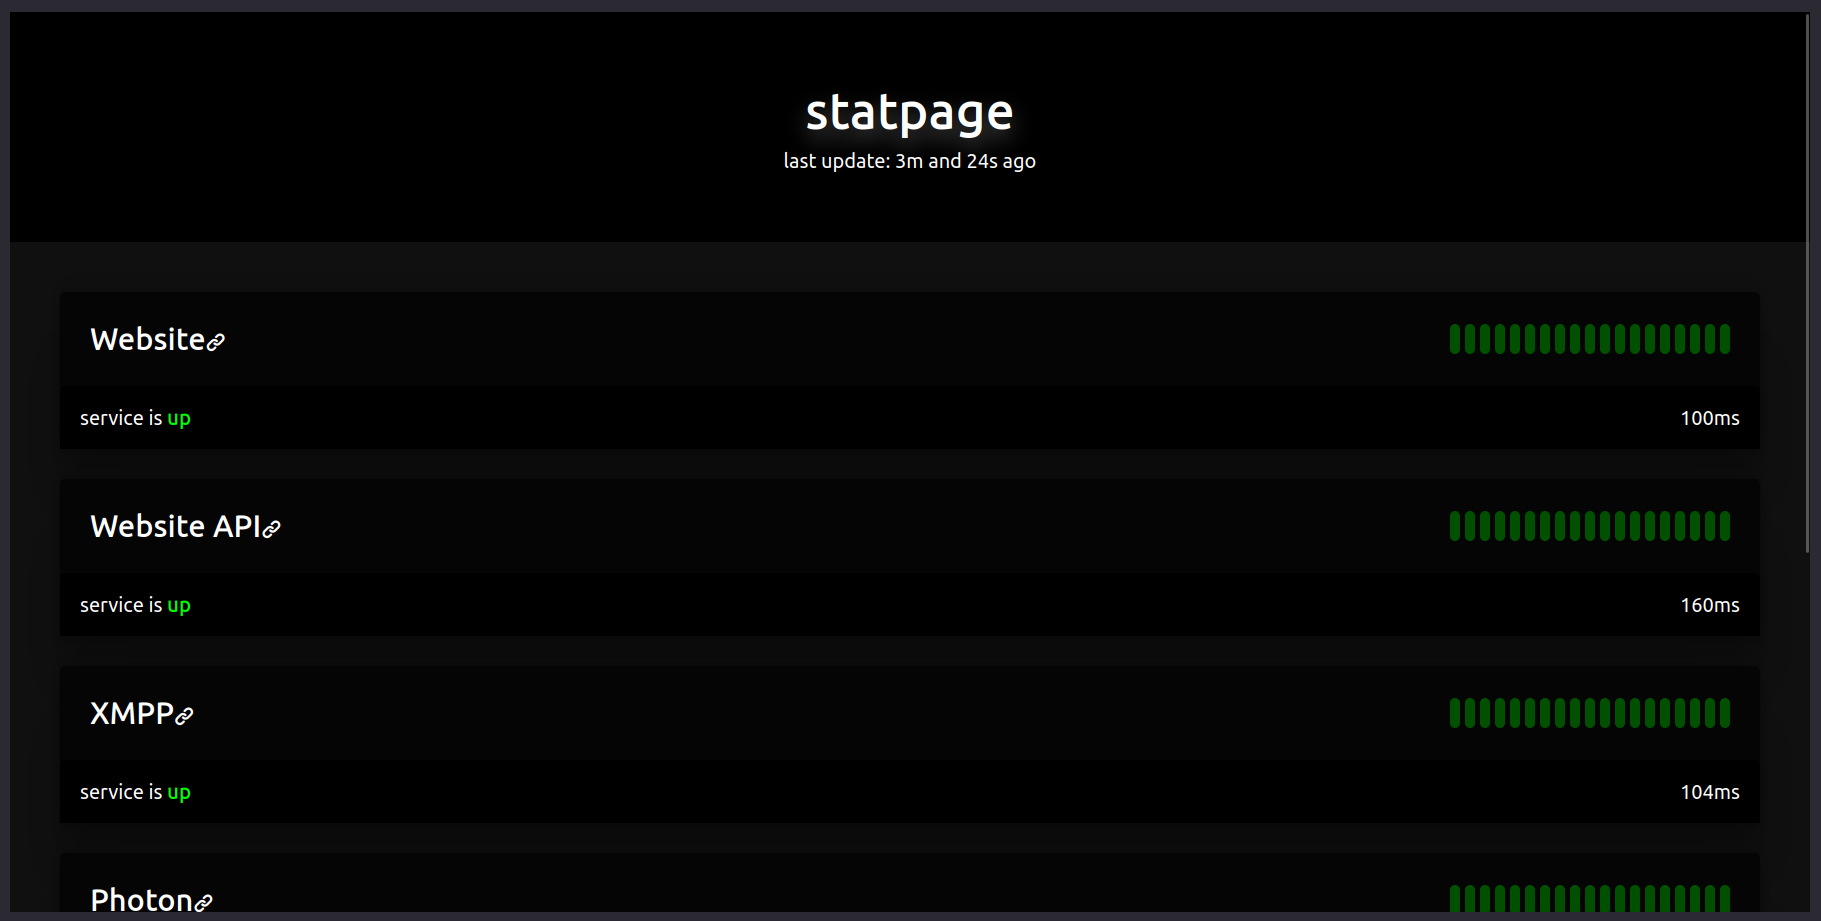
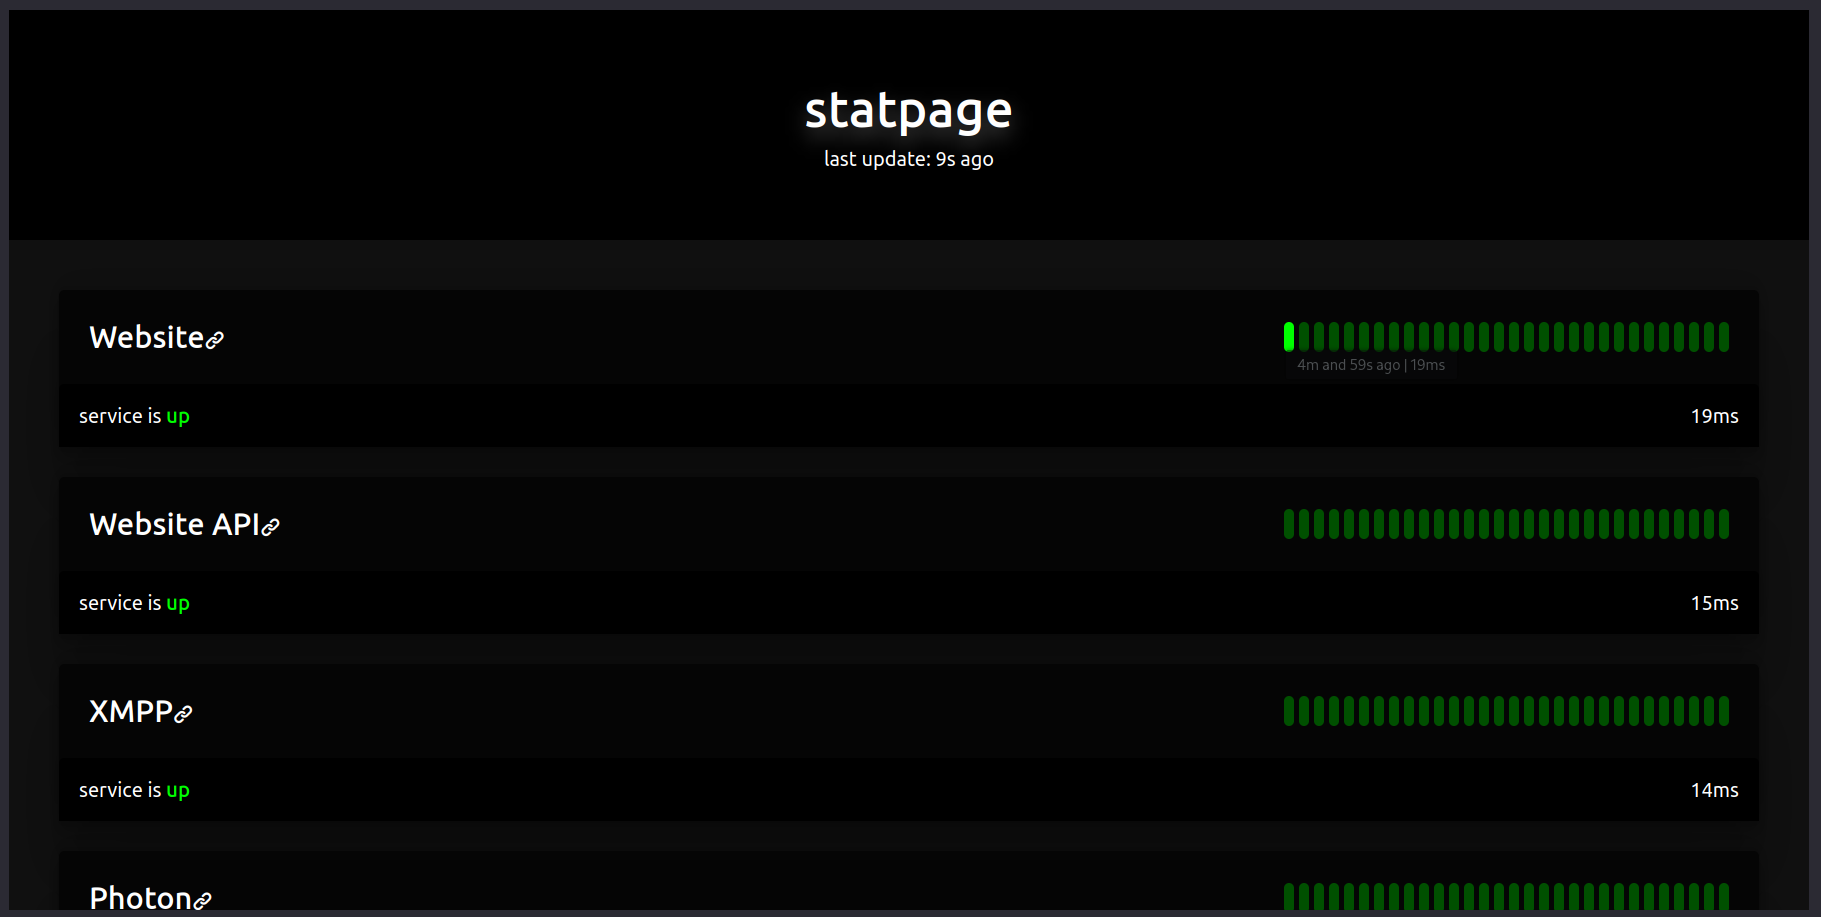
better time measuring for http(s) + new check result structure

diff --git a/views/index.html b/views/index.html
@@ -11,7 +11,7 @@
 
     <div class="header">
       <h1>{{.title}}</h1>
-      <p>last update: {{.checktime}}</p>
+      <p>last update: {{call .checktime .lastcheck}}</p>
     </div>
 
     <div class="services">
@@ -27,14 +27,18 @@
             </div>
             <div class="bars">
             {{range $result := $service.Results}}
-              {{if gt $result.SuccessRate 90}}
-                <div title=" {{$result.Date}} | {{$result.TimeAverage}}ms " class="bar bar-100"></div>
-              {{else if gt $result.SuccessRate 70}}
-                <div title=" {{$result.Date}} | {{$result.TimeAverage}}ms " class="bar bar-70"></div>
-              {{else if gt $result.SuccessRate 40}}
-                <div title=" {{$result.Date}} | {{$result.TimeAverage}}ms " class="bar bar-40"></div>
+              {{if $result.Success}}
+                {{if gt $result.Time 200}}
+                  <div title=" {{call $.checktime $result.Stamp}} | {{$result.Time}}ms " class="bar bar-0"></div>
+                {{else if gt $result.Time 150}}
+                  <div title=" {{call $.checktime $result.Stamp}} | {{$result.Time}}ms " class="bar bar-40"></div>
+                {{else if gt $result.Time 100}}
+                  <div title=" {{call $.checktime $result.Stamp}} | {{$result.Time}}ms " class="bar bar-70"></div>
+                {{else}}
+                  <div title=" {{call $.checktime $result.Stamp}} | {{$result.Time}}ms " class="bar bar-100"></div>
+                {{end}}
               {{else}}
-                <div title=" {{$result.Date}} | {{$result.TimeAverage}}ms " class="bar bar-0"></div>
+                  <div title=" {{call $.checktime $result.Stamp}} | Down " class="bar bar-0"></div>
               {{end}}
             {{end}}
             </div>
@@ -62,4 +66,3 @@
 
   </body>
 </html>
-

diff --git a/lib/data.go b/lib/data.go
@@ -2,7 +2,6 @@ package lib
 
 import (
 	"encoding/json"
-	"fmt"
 	"os"
 	"path"
 	"time"
@@ -11,11 +10,9 @@ import (
 )
 
 type Result struct {
-  SuccessRate int     `json:"success_rate"` 
-  TimeAverage int     `json:"time_average"`
-  Success     []bool  `json:"success"`
-  Time        []int   `json:"time"`
-  Date        string  `json:"date"`
+  Time        int             `json:"time"`
+  Success     bool            `json:"success"`
+  Stamp       time.Time       `json:"stamp"`
 }
 
 // data is just a json list containing all the services 
@@ -55,7 +52,7 @@ func CheckDataDir() {
   }
 }
 
-func LoadResults() {
+func LoadData() {
   CheckDataDir()
 
   content, err := os.ReadFile(path.Join("data", "data.json"))
@@ -80,7 +77,7 @@ func LoadResults() {
   Services = data.Services
 }
 
-func SaveResults() {
+func SaveData() {
   CheckDataDir()
   
   // create a temp data object
@@ -98,25 +95,6 @@ func SaveResults() {
   if err != nil {
     log.Fatalf("Error writing to data file: %s", err)
   }
-}
-
-func CalcRate(result Result) Result {
-  // really ugly rate calculations
-  result.SuccessRate = 100
-  persuccess := 100/len(result.Success)
-  for _, s := range result.Success {
-    if !s {
-      result.SuccessRate = result.SuccessRate - persuccess
-    }
-  }
-
-  result.TimeAverage = 0
-  for _, t := range result.Time {
-    result.TimeAverage += t
-  }
-  result.TimeAverage = result.TimeAverage / len(result.Time)
-
-  return result
 }
 
 func CheckRemoved() {
@@ -137,52 +115,45 @@ func CheckRemoved() {
     }
   }
 
-  SaveResults()
+  SaveData()
 }
 
 func SaveResult(service Service, t int, ok bool) {
   CheckRemoved()
 
-  found := false
-  now := time.Now()
-  date := fmt.Sprintf(
-    "%d/%d/%d", 
-    now.Day(), now.Month(), now.Year(),
-  )
-
   for i := range Services {
-    if Services[i].Address == service.Address && Services[i].Type == service.Type {
-      indx := len(Services[i].Results)-1
-      Services[i].Results[indx].Time = append(Services[i].Results[indx].Time, t)
-      Services[i].Results[indx].Success = append(Services[i].Results[indx].Success, ok)
-      Services[i].Results[indx].Date = date
-
-      Services[i].LastTime = t 
-      Services[i].LastSuccess = ok 
-      found = true
+    if Services[i].Address != service.Address || Services[i].Type != service.Type {
+      continue
     }
-  }
-
-  if !found {
-    service.Results = append(service.Results, Result{
-      SuccessRate: 100,
-      TimeAverage: 0,
-      Success: []bool{ok},
-      Time: []int{t},
-      Date: date,
+    
+    Services[i].Results = append(Services[i].Results, Result{
+      Time: t,
+      Success: ok,
+      Stamp: time.Now(),
     })
 
-    service.LastTime = t
-    service.LastSuccess = ok 
-    Services = append(Services, service)
+    Services[i].LastTime = t 
+    Services[i].LastSuccess = ok  
+
+    if(len(Services[i].Results) > GetConfig().Reset) {
+      copy(Services[i].Results[0:], Services[i].Results[1:])
+      Services[i].Results[len(Services[i].Results)-1] = Result{}
+      Services[i].Results = Services[i].Results[:len(Services[i].Results)-1]
+    }
+
+    SaveData()
+    return
   }
 
-  for _, s := range Services {
-    if s.Address == service.Address && s.Type == service.Type { 
-      last := len(s.Results)-1
-      s.Results[last] = CalcRate(s.Results[last])
-    } 
-  }
+  service.Results = append(service.Results, Result{
+    Success: ok,
+    Time: t,
+    Stamp: time.Now(),
+  })
 
-  SaveResults()
+  service.LastTime = t
+  service.LastSuccess = ok 
+  Services = append(Services, service)
+  
+  SaveData()
 }

diff --git a/main.go b/main.go
@@ -13,8 +13,32 @@ import (
 	"github.com/ngn13/statpage/lib"
 )
 
+func CheckTimePassed(t time.Time) string {
+  diff := time.Since(t)
+  res := fmt.Sprintf(
+    "%ds ago", 
+    int(diff.Seconds()),
+  )
+
+  if diff.Minutes() > 1 { 
+    res = fmt.Sprintf(
+      "%dm and %ds ago", 
+      int(diff.Minutes()), int(diff.Seconds())-(int(diff.Minutes())*60),
+    )
+  }
+
+  if diff.Hours() > 1 {
+    res = fmt.Sprintf("%dh and %dm ago", 
+      int(diff.Hours()),
+      int(diff.Minutes())-(int(diff.Hours())*60), 
+    )
+  }
+
+  return res
+}
+
 func main(){
-  lib.LoadResults()
+  lib.LoadData()
   go lib.Loop()
 
   engine := html.New("./views", ".html") 
@@ -26,31 +50,14 @@ func main(){
   app.Static("/", "./public")
 
   app.Get("/", func(c *fiber.Ctx) error {
-    t := time.Since(lib.Checktime)
-    chtime := fmt.Sprintf(
-      "%ds ago", 
-      int(t.Seconds()),
-    )
-
-    if t.Minutes() > 1 {
-      chtime = fmt.Sprintf(
-        "%dm and %ds ago", 
-        int(t.Minutes()), int(t.Seconds())-(int(t.Minutes())*60),
-      )
-    }
-
-    if t.Hours() > 1 {
-      chtime = fmt.Sprintf("%dh and %dm ago", 
-        int(t.Hours()),
-        int(t.Minutes())-(int(t.Hours())*60), 
-      )
-    }
+    
 
     return c.Render("index", fiber.Map{
       "title": lib.GetConfig().Title,
       "contact": lib.GetConfig().Contact,
       "services": lib.Services,
-      "checktime": chtime,
+      "lastcheck": lib.LastChecked,
+      "checktime": CheckTimePassed,
     })
   })
 

diff --git a/lib/loops.go b/lib/loops.go
@@ -7,9 +7,8 @@ import (
 )
 
 var check_ticker = time.NewTicker(GetInterval())
-var result_ticker = time.NewTicker(time.Duration(24)*time.Hour)
 var Checkchan = make(chan struct{})
-var Checktime time.Time 
+var LastChecked time.Time 
 
 func checkServices() {
   log.Info("Checking service status")
@@ -19,29 +18,7 @@ func checkServices() {
     log.Infof("Service: %s | Type: %s | Status: %t | Time: %dms", s.Name, s.Type, ok, t)
     SaveResult(s, t, ok)
   }
-  Checktime = time.Now()
-}
-
-func addResult() {
-  log.Info("Resetting results")
-  services := Services
-  
-  for i := range services {
-    Services[i].Results = append(Services[i].Results, Result{
-      SuccessRate: 100,
-      TimeAverage: 0,
-      Success: []bool{},
-      Time: []int{},
-    })
-    
-    if len(Services[i].Results) >= 20 {
-      copy(Services[i].Results[0:], Services[i].Results[1:]) 
-      Services[i].Results[len(Services[i].Results)-1] = Result{}     
-      Services[i].Results = Services[i].Results[:len(Services[i].Results)-1]
-    }
-  }
-
-  SaveResults()
+  LastChecked = time.Now()
 }
 
 func Loop() {
@@ -49,15 +26,10 @@ func Loop() {
 
   for {
     select {
-      case <- result_ticker.C:
-        addResult()
-        checkServices()
-
       case <- check_ticker.C:
         checkServices()
 
       case <- Checkchan:
-        result_ticker.Stop()
         check_ticker.Stop()
         return
     }

diff --git a/lib/check.go b/lib/check.go
@@ -18,12 +18,13 @@ func CheckGET(s Service, url string,) (bool, int) {
   var elapsed int64
 
   trace := &httptrace.ClientTrace{
-    ConnectStart: func(_, _ string){ start = time.Now() },
+    GetConn: func(_ string){ start = time.Now() },
     GotFirstResponseByte: func(){ elapsed = time.Since(start).Milliseconds() },
   } 
 
   req = req.WithContext(httptrace.WithClientTrace(req.Context(), trace))
   res, err := http.DefaultClient.Do(req)
+  log.Infof("MS: %d", uint64(elapsed));
 
   if err != nil {
     return false, 0
@@ -31,6 +32,7 @@ func CheckGET(s Service, url string,) (bool, int) {
 
   defer res.Body.Close()
   raw, err := io.ReadAll(res.Body)
+  log.Infof("Body: %s", raw);
   if err != nil {
     log.Errorf("Error reading body from %s: %s", url, err)
     return false, 0
@@ -49,7 +51,6 @@ func CheckGET(s Service, url string,) (bool, int) {
   }
 
   return true, int(elapsed)
-
 }
 
 func CheckTCP(s Service, useTls bool) (bool, int) {

diff --git a/lib/config.go b/lib/config.go
@@ -38,6 +38,7 @@ type Service struct {
 
 type Config struct {
   // all the config options
+  Reset     int       `json:"reset"`
   Title     string    `json:"title"`
   Address   string    `json:"address"`
   Contact   string    `json:"contact"`

diff --git a/README.md b/README.md
@@ -52,6 +52,7 @@ Copy this file to `config/config.json` to get started with the configuration.
 - `contact`: Contact URL that will be displayed at the bottom of the page
 - `interval`: Service check interval 
 - `services`: List of services to check
+- `reset`: When there is as much check results as `reset`, a new result will drop the oldest result in the list
 
 ### Service config options
 - `name`: Service name
@@ -76,6 +77,9 @@ over `contains`
 If you want to customize the status page, check out [theme.css.example](config/theme.css.example)
 file to get started.
 
-## 📃 License 
+## 📃 Licenses
 This project is licensed under GNU General Public License version 3 (GPLv3). Please see 
 [LICENSE.txt](LICENSE.txt) for more information.
+
+License for [NerdFonts](https://github.com/ryanoasis/nerd-fonts), which is the font used in 
+the application, can be found [here](https://github.com/ryanoasis/nerd-fonts/blob/master/LICENSE).
